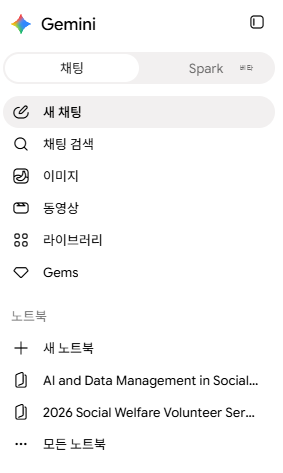
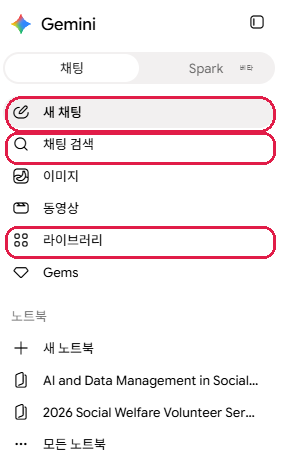
feat: apply precision red-box masking to slides 14 & 15 images

diff --git a/slides.md b/slides.md
@@ -517,33 +517,37 @@ mdc: true
 
 <SlideHeader title="Gemini 모델개선 학습" category="텍스트 생성AI" />
 
-<div class="grid grid-cols-2 gap-6 h-[400px]">
-  <div class="space-y-4">
-    <div class="p-4 rounded-xl bg-slate-50 border border-slate-200">
-      <div class="font-bold text-slate-900 text-sm mb-1.5 flex items-center gap-2">
-        <span class="w-6 h-6 rounded-full bg-blue-600 text-white text-xs font-bold flex items-center justify-center">1</span>
+<div class="grid grid-cols-[1.1fr_130px_1.4fr] gap-4 items-center h-[390px]">
+  <div class="space-y-3">
+    <div class="p-3.5 rounded-xl bg-slate-50 border border-slate-200">
+      <div class="font-bold text-slate-900 text-xs mb-1 flex items-center gap-2">
+        <span class="w-5 h-5 rounded-full bg-blue-600 text-white text-[10px] font-bold flex items-center justify-center shrink-0">1</span>
         <span>모두를 위한 모델 개선 사용 중지</span>
       </div>
-      <p class="text-xs text-slate-600 leading-relaxed m-0">
-        제미나이는 모델 개선 학습을 '사용 중지'할 경우 입력한 프롬프트가 구글의 AI 모델 학습 데이터로 영구 저장되지 않습니다.
+      <p class="text-[11px] text-slate-600 leading-relaxed m-0">
+        제미나이는 모델 개선 학습을 '사용 중지'할 경우 입력한 프롬프트가 AI 학습 데이터로 영구 저장되지 않습니다.
       </p>
     </div>
-    <div class="p-4 rounded-xl bg-slate-50 border border-slate-200">
-      <div class="font-bold text-slate-900 text-sm mb-1.5 flex items-center gap-2">
-        <span class="w-6 h-6 rounded-full bg-emerald-600 text-white text-xs font-bold flex items-center justify-center">2</span>
+    <div class="p-3.5 rounded-xl bg-slate-50 border border-slate-200">
+      <div class="font-bold text-slate-900 text-xs mb-1 flex items-center gap-2">
+        <span class="w-5 h-5 rounded-full bg-emerald-600 text-white text-[10px] font-bold flex items-center justify-center shrink-0">2</span>
         <span>임시 채팅 활용</span>
       </div>
-      <p class="text-xs text-slate-600 leading-relaxed m-0">
-        화면 오른쪽 상단의 임시 채팅을 켜면 대화 기록이 히스토리에 남지 않고 즉시 휘발됩니다.
+      <p class="text-[11px] text-slate-600 leading-relaxed m-0">
+        오른쪽 상단의 임시 채팅을 켜면 대화 기록이 히스토리에 남지 않고 즉시 휘발됩니다.
       </p>
     </div>
-    <div class="text-xs text-slate-500 bg-blue-50/60 p-3 rounded-lg border border-blue-200">
-      💡 <strong>설정 경로 :</strong> 구글 계정 관리 ➔ 데이터 및 개인정보 보호 ➔ Gemini 앱 활동 ➔ '사용 안함' 체크
+    <div class="text-[11px] text-slate-500 bg-blue-50/60 p-2.5 rounded-lg border border-blue-200">
+      💡 <strong>설정 경로 :</strong> 계정 설정 ➔ <strong>활동</strong> ➔ Gemini 앱 활동 ➔ '사용 중지'
     </div>
   </div>
-  <div class="flex flex-col gap-3 justify-center items-center">
-    <img src="/dek_14/제목 없음.png" class="max-h-[210px] w-auto object-contain rounded-xl shadow-sm" alt="Gemini 앱 활동 설정 화면" />
-    <img src="/dek_14/임시채팅2.png" class="max-h-[140px] w-auto object-contain rounded-xl shadow-sm" alt="임시 채팅 화면" />
+  <div class="flex flex-col items-center">
+    <img src="/dek_14/설정_활동.PNG" class="max-h-[340px] w-auto object-contain rounded-xl shadow-sm" alt="Gemini 설정 및 활동 메뉴" />
+    <div class="text-[9px] text-slate-500 text-center mt-1">접근 메뉴</div>
+  </div>
+  <div class="flex flex-col gap-2.5 justify-center items-center">
+    <img src="/dek_14/제목 없음.png" class="max-h-[190px] w-auto object-contain rounded-xl shadow-sm" alt="Gemini 앱 활동 설정 화면" />
+    <img src="/dek_14/임시채팅2.png" class="max-h-[130px] w-auto object-contain rounded-xl shadow-sm" alt="임시 채팅 화면" />
   </div>
 </div>
 
